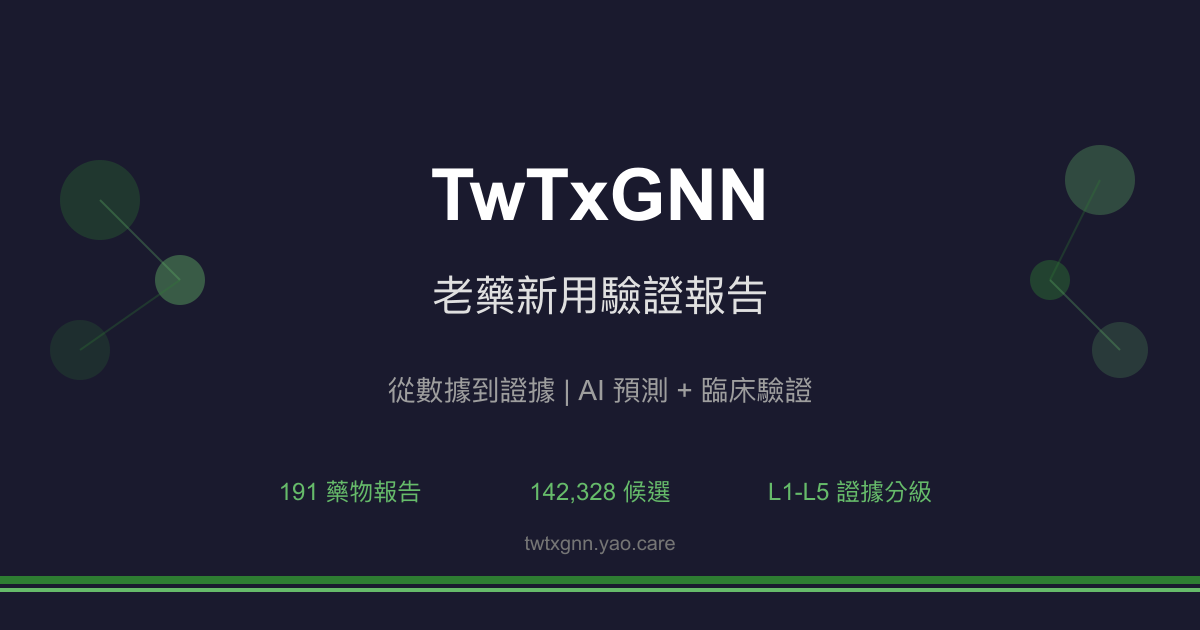
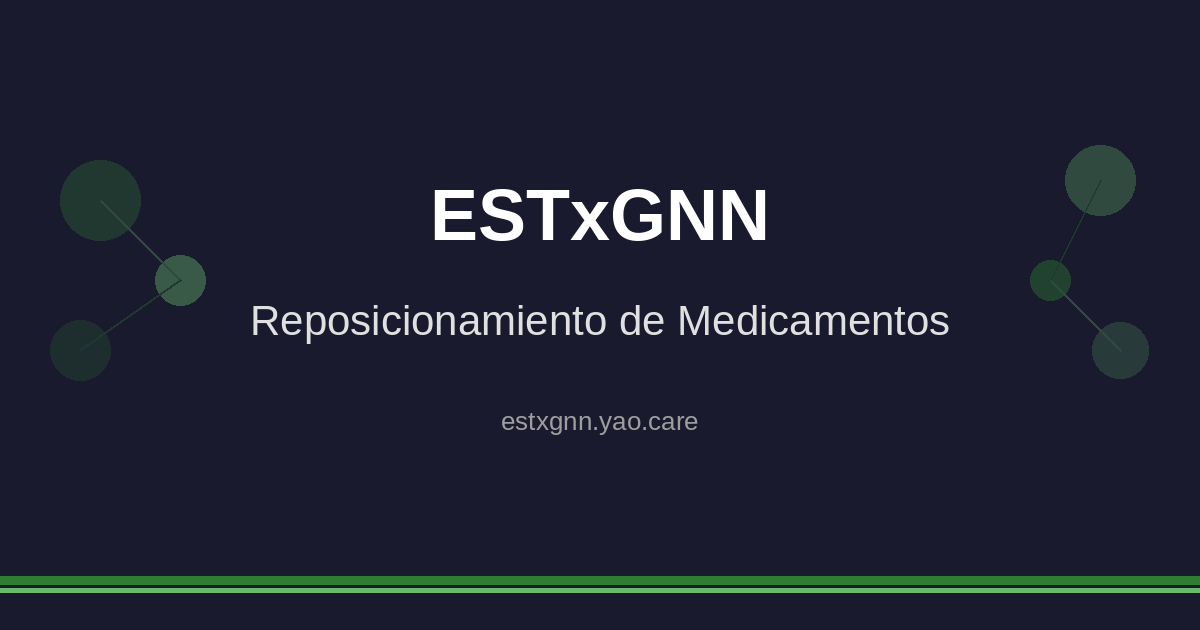
fix: 移除照抄 TwTxGNN 的內容（og 圖、分享按鈕）
- og-default.png／svg：原檔是 TwTxGNN 的圖（TwTxGNN、191 藥物報告、142,328 候選、twtxgnn.yao.care）。
  改由母 repo .claude/gen_og_image.py 產生本站圖：只放站名、網域、本站語言的一行副標（取自 _config.yml title），不放數字。
- assets/images/README.md：設計要求裡的「TwTxGNN」與標語改成本站實際內容，註明產生方式。
- _includes/social-share.html：X hashtag 與 mailto 主旨的 TwTxGNN → ESTxGNN；推文與郵件內文原為中文「老藥新用驗證報告」，按鈕文字原為英文，改成本站語言。（此 include 目前沒有頁面引用，先修正以免日後啟用時帶出 Tw 字樣。）

Claude-Session: https://claude.ai/code/session_013aGXmRzC9hmsD5XtZ9FusM

diff --git a/docs/_includes/social-share.html b/docs/_includes/social-share.html
@@ -1,14 +1,14 @@
-<!-- 學術分享按鈕 -->
+<!-- Share buttons -->
 <div class="social-share" style="margin: 2rem 0; padding: 1.25rem; background: #f8f9fa; border-radius: 8px; border: 1px solid #e0e0e0;">
-  <strong style="display: block; margin-bottom: 0.75rem; color: #333;">Share this report:</strong>
+  <strong style="display: block; margin-bottom: 0.75rem; color: #333;">Compartir este informe:</strong>
   <div style="display: flex; gap: 0.5rem; flex-wrap: wrap;">
     <!-- Twitter/X -->
-    <a href="https://twitter.com/intent/tweet?text={{ page.title | url_encode }}%20%E8%80%81%E8%97%A5%E6%96%B0%E7%94%A8%E9%A9%97%E8%AD%89%E5%A0%B1%E5%91%8A&url={{ page.url | absolute_url | url_encode }}&hashtags=DrugRepurposing,TwTxGNN"
+    <a href="https://twitter.com/intent/tweet?text={{ page.title | url_encode }}%20Informe%20de%20reposicionamiento%20de%20medicamentos&url={{ page.url | absolute_url | url_encode }}&hashtags=DrugRepurposing,ESTxGNN"
        target="_blank" rel="noopener noreferrer"
        style="display: inline-flex; align-items: center; gap: 0.375rem; padding: 0.5rem 1rem; background: #000; color: white; text-decoration: none; border-radius: 6px; font-size: 0.9rem; font-weight: 500; transition: opacity 0.2s;"
        onmouseover="this.style.opacity='0.8'" onmouseout="this.style.opacity='1'">
       <svg width="16" height="16" fill="currentColor" viewBox="0 0 24 24"><path d="M18.244 2.25h3.308l-7.227 8.26 8.502 11.24H16.17l-5.214-6.817L4.99 21.75H1.68l7.73-8.835L1.254 2.25H8.08l4.713 6.231zm-1.161 17.52h1.833L7.084 4.126H5.117z"/></svg>
-      Share on X
+      Compartir en X
     </a>
 
     <!-- LinkedIn -->
@@ -20,16 +20,16 @@
       LinkedIn
     </a>
 
-    <!-- 複製連結 -->
+    <!-- Copy link -->
     <button onclick="copyReportLink(this)"
             style="display: inline-flex; align-items: center; gap: 0.375rem; padding: 0.5rem 1rem; background: #6c757d; color: white; border: none; border-radius: 6px; cursor: pointer; font-size: 0.9rem; font-weight: 500; transition: all 0.2s;"
             onmouseover="this.style.background='#5a6268'" onmouseout="this.style.background='#6c757d'">
       <svg width="16" height="16" fill="currentColor" viewBox="0 0 24 24"><path d="M16 1H4c-1.1 0-2 .9-2 2v14h2V3h12V1zm3 4H8c-1.1 0-2 .9-2 2v14c0 1.1.9 2 2 2h11c1.1 0 2-.9 2-2V7c0-1.1-.9-2-2-2zm0 16H8V7h11v14z"/></svg>
-      <span>Copy link</span>
+      <span>Copiar enlace</span>
     </button>
 
     <!-- Email -->
-    <a href="mailto:?subject={{ page.title | url_encode }}%20-%20TwTxGNN&body=%E6%8E%A8%E8%96%A6%E9%80%99%E4%BB%BD%E8%80%81%E8%97%A5%E6%96%B0%E7%94%A8%E9%A9%97%E8%AD%89%E5%A0%B1%E5%91%8A%EF%BC%9A%0A%0A{{ page.url | absolute_url | url_encode }}"
+    <a href="mailto:?subject={{ page.title | url_encode }}%20-%20ESTxGNN&body=Te%20recomiendo%20este%20informe%20de%20reposicionamiento%20de%20medicamentos%3A%0A%0A{{ page.url | absolute_url | url_encode }}"
        style="display: inline-flex; align-items: center; gap: 0.375rem; padding: 0.5rem 1rem; background: #EA4335; color: white; text-decoration: none; border-radius: 6px; font-size: 0.9rem; font-weight: 500; transition: opacity 0.2s;"
        onmouseover="this.style.opacity='0.8'" onmouseout="this.style.opacity='1'">
       <svg width="16" height="16" fill="currentColor" viewBox="0 0 24 24"><path d="M20 4H4c-1.1 0-1.99.9-1.99 2L2 18c0 1.1.9 2 2 2h16c1.1 0 2-.9 2-2V6c0-1.1-.9-2-2-2zm0 4l-8 5-8-5V6l8 5 8-5v2z"/></svg>
@@ -44,7 +44,7 @@ function copyReportLink(btn) {
   navigator.clipboard.writeText(url).then(() => {
     const span = btn.querySelector('span');
     const originalText = span.textContent;
-    span.textContent = 'Copied!';
+    span.textContent = '¡Copiado!';
     btn.style.background = '#28a745';
     setTimeout(() => {
       span.textContent = originalText;

diff --git a/docs/assets/images/README.md b/docs/assets/images/README.md
@@ -15,11 +15,15 @@ nav_exclude: true
 
 ### 設計要求
 
-1. 包含網站名稱「TwTxGNN」
-2. 包含標語「老藥新用，從數據到證據」
-3. 簡潔、專業風格
-4. 背景純色或簡單圖案
+1. 包含網站名稱「ESTxGNN」與網域
+2. 包含該站語言的一行副標（取自 _config.yml 的 title）
+3. 不放藥物數、候選數等數字（會過期）
+4. 簡潔、專業風格
 5. 適合在社群媒體預覽顯示
+
+### 產生方式
+
+由 TxGNN 母 repo 的 `.claude/gen_og_image.py` 產生（同時輸出 og-default.svg）。
 
 ### 使用位置
 
